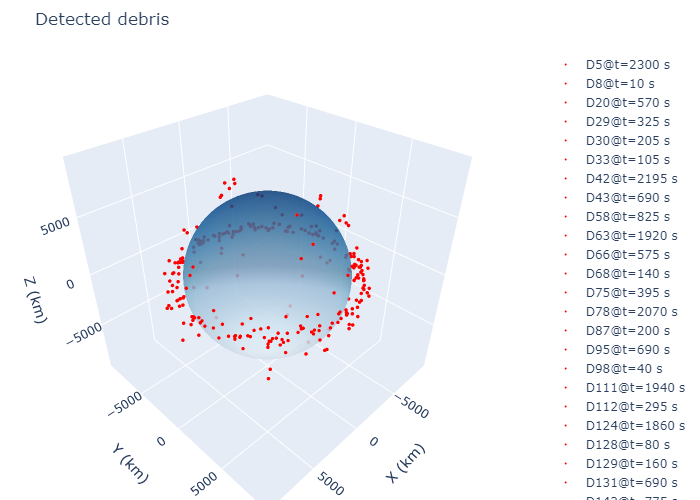
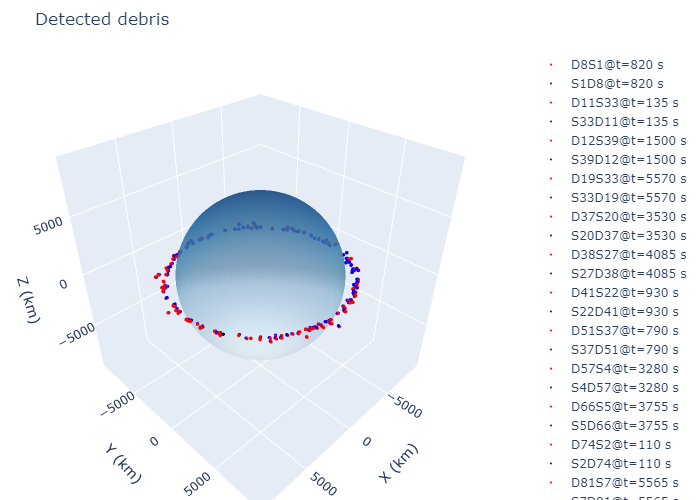
finally fixed the horrible indexing monster bug. graphs work perfectly now. restarting manual sim runs

diff --git a/Optimization/simulation.py b/Optimization/simulation.py
@@ -545,8 +545,8 @@ class Simulation:
 
         # Initialize position arrays. Each row is a timestep, each row is a satellite/debris. Each element is a 3D vector storing the position
         # Using float32 to keep acccuracy and reduce memory usage. float16 cannot be used because of overflow in cp.linalg.norm
-        self.position_deb = cp.zeros((len(times), total_debris, 3), dtype=cp.float32)           # Shape: (T, S, 3)
-        self.position_sat = cp.zeros((len(times), const.total_sats, 3) , dtype=cp.float32)      # Shape: (T, D, 3)
+        self.position_deb = cp.zeros((len(times), total_debris, 3), dtype=cp.float32)           # Shape: (T, D, 3)
+        self.position_sat = cp.zeros((len(times), const.total_sats, 3) , dtype=cp.float32)      # Shape: (T, S, 3)
 
         # Calculate batch size based on available memory
         free_memory, _ = cp.cuda.runtime.memGetInfo()
@@ -558,14 +558,24 @@ class Simulation:
         # Process timesteps in batches
         for i in range(0, (len(times)),batch_size):
             #print(f"batch{i}")
-            batch_times = times[i:i+batch_size]
+            max_index = min(i+batch_size, len(times))
+            batch_times = times[i:max_index]
+
+            # print(max_index)
+            # print(i)
+            # print(batch_times)
+            # print(len(batch_times))
 
             # Propagate all orbits at all times using cowell(). cowell is the only function in poliastro that can propagate to an array of times. save positions in position_deb and position_sat, at the right indices
-            self.position_deb[i:i+batch_size, :, :] = propagate_all_orbits_gpu(cp.zeros((len(batch_times),total_debris,     3)), batch_times, debris_orbits)
-            self.position_sat[i:i+batch_size, :, :] = propagate_all_orbits_gpu(cp.zeros((len(batch_times),const.total_sats, 3)), batch_times, const.sat_orbits)
+            self.position_deb[i:max_index, :, :] = propagate_all_orbits_gpu(cp.zeros((len(batch_times),total_debris,     3)), batch_times, debris_orbits)
+            self.position_sat[i:max_index, :, :] = propagate_all_orbits_gpu(cp.zeros((len(batch_times),const.total_sats, 3)), batch_times, const.sat_orbits)
             
             # Run detection for all timesteps in batch at once. take only the right timesteps from the position arrays.
-            batch_detections, batch_collisions = self.detect_debris_array_GPU(self.position_sat[i:batch_size+i,:,:], self.position_deb[i:batch_size+i,:,:], radar)
+            batch_detections, batch_collisions = self.detect_debris_array_GPU(self.position_sat[i:max_index,:,:], self.position_deb[i:max_index,:,:], radar)
+            #print("batch_detections", batch_detections)
+            # correct batch time indices to global time indices
+            batch_detections[:,0] += i
+            batch_collisions[:,0] += i
             detections = cp.concatenate((detections, batch_detections), axis=0)
             collisions = cp.concatenate((collisions, batch_collisions), axis=0)
 
@@ -574,12 +584,13 @@ class Simulation:
         _, collision_indices = cp.unique(collisions[:,1], return_index=True)
         detections = detections[detection_indices]
         collisions = collisions[collision_indices]
+        detections = detections[1:]                                     # Remove first row (0,0,0)
+        #print("detections", detections)
 
         free_memory, _ = cp.cuda.runtime.memGetInfo()
         # print("Free Memory (GB):", free_memory / 1e9)
 
         # Store results in the Simulation object
-        detections = detections[1:]                                     # Remove first row (0,0,0)
         self.det_deb = detections[:,1].astype(int)                      # column 1 of detections array is the debris index
         self.det_time = detections[:,0].astype(int)                     # column 0 of detections array is the detection time index (not the actual time)
         self.det_sat = detections[:,2].astype(int)                      # column 2 of detections array is the index of the satellite responsible for the detection
@@ -689,11 +700,11 @@ def plot_simulation_results_gpu(sim:Simulation, simid, save=False):
                         marker=dict(color='blue', size=2), name=f'S{sim.det_sat[i]}D{sim.det_deb[i]+1}@t={sim.det_time[i]*sim.timestep:.0f}') 
         )
 
-        if sim.col_deb.any():
-            fig.add_trace(
-                go.Scatter3d(x=[sim.col_pos[i, 0]], y=[sim.col_pos[i, 1]], z=[sim.col_pos[i, 2]], mode='markers',
-                            marker=dict(color='black', size=2), name=f'D{sim.col_deb[i]+1}S{sim.col_sat[i]}@t={sim.col_time[i]*sim.timestep:.0f}') # why i+1?
-            )
+    for i in range(len(sim.col_deb)):
+        fig.add_trace(
+            go.Scatter3d(x=[sim.col_pos[i, 0]], y=[sim.col_pos[i, 1]], z=[sim.col_pos[i, 2]], mode='markers',
+                        marker=dict(color='black', size=2), name=f'D{sim.col_deb[i]+1}S{sim.col_sat[i]}@t={sim.col_time[i]*sim.timestep:.0f}') # why i+1?
+        )
 
     max_distance += 1000
 

diff --git a/Optimization/constellation_benchmark.py b/Optimization/constellation_benchmark.py
@@ -12,7 +12,7 @@ time_of_flight = 2 * u.hour                                         # Time of fl
 start_time = 0*u.s                                                  # Start time of the simulation [s]
 max_timestep = 5.0*u.s                                              # timestep of the simulation [s]
 sim = Simulation (time_of_flight, start_time, max_timestep)         # Create a simulation object
-
+simid = "1.1"
 #### Radar
 radar = Radar()                                                     # Create a radar object
 
@@ -40,4 +40,4 @@ dist, altitudes = satellite_dist(num_orbits = num_orbits, num_sats = num_sats, w
 # Create a constellation object
 const = Constellation(altitudes = altitudes, sat_distribution = dist, i_spacing = i_spacing, i_0 = i_0, raan_spacing = raan_spacing, raan_0 = raan_0, eccentricity = e) 
 # Run the simulation, plot the results and return the efficiency
-consteff = main(sim, const, deb_orbits, deb_d, radar, plot = True, gpu = True, simid = input("Enter simulation ID: "), saveplot = True) 
+consteff = main(sim, const, deb_orbits, deb_d, radar, plot = True, gpu = True, simid = simid, saveplot = True) 

diff --git a/Optimization/generic_tools.py b/Optimization/generic_tools.py
@@ -30,5 +30,19 @@ def safe_norm(x, axis=-1):
 
 if __name__ == "__main__":
 
-    print(format_time(10000.123486))
-    print (100//6)
+    #print(format_time(10000.123486))
+    #print (100//6)
+    a = cp.array([[1,2,3],
+                  [4,5,6],
+                  [7,8,9]])
+    
+    b = cp.array([[0,1,2,3,4],
+                  [5,6,7,8,9]])
+    
+    pos = cp.array([[[1,1,1],[2,2,2],[3,3,3]],
+                    [[4,4,4],[5,5,5],[6,6,6]],
+                    [[7,7,7],[8,8,8],[9,9,9]]])
+    #print(a[0:5,:])
+    print(b[0:10,2])
+    print(b[1,1])
+    print(pos[0:2,:,:])

diff --git a/Optimization/dataset_variability_study.py b/Optimization/dataset_variability_study.py
@@ -41,7 +41,7 @@ const = Constellation(altitudes = altitudes, sat_distribution = dist, i_spacing 
 
 # Run the simulation, plot the results and return the efficiency
 etalist = []
-for i in range(10):
+for i in range(1):
     deb_orbits, deb_d = generate_debris(debris_num, use_new_dataset)    # Generate the debris objects
     consteff = main(sim, const, deb_orbits, deb_d, radar, plot = False, gpu = True, simid = 'test', saveplot = False)
     etalist.append(consteff)

diff --git a/Optimization/note2.md b/Optimization/note2.md
@@ -1,0 +1,99 @@
+detections [[  0.   0.   0.]
+ [164.   7.   1.]
+ [ 27.  10.  33.]
+ [300.  11.  39.]
+ [186.  40.  22.]
+ [158.  50.  37.]
+ [ 22.  73.   2.]
+ [363.  82.  25.]
+ [ 31.  97.  22.]
+ [ 13. 126.  25.]
+ [225. 129.   2.]
+ [355. 134.  13.]
+ [256. 145.   1.]
+ [ 74. 164.  10.]
+ [477. 167.  19.]
+ [141. 182.  47.]
+ [133. 201.  26.]
+ [220. 226.  22.]
+ [490. 244.  28.]
+ [286. 250.   3.]
+ [  1. 267.  17.]
+ [ 49. 279.  31.]
+ [174. 288.  49.]
+ [414. 291.  19.]
+ [248. 295.  13.]
+ [152. 298.  22.]
+ [ 43. 309.   7.]
+ [ 92. 315.  20.]
+ [128. 332.  40.]
+ [ 18. 333.   1.]
+ [483. 359.  23.]
+ [ 17. 366.  12.]
+ [ 14. 381.   5.]
+ [ 38. 384.  16.]
+ [ 81. 386.   1.]
+ [ 49. 391.  16.]
+ [184. 393.  43.]
+ [102. 400.   4.]
+ [255. 427.   7.]
+ [137. 451.   1.]
+ [361. 458.  19.]
+ [  3. 459.   2.]
+ [ 63. 463.  10.]
+ [305. 473.  28.]
+ [138. 475.  43.]
+ [ 27. 486.  37.]
+ [ 21. 497.  14.]
+ [169. 510.   3.]
+ [ 12. 512.  19.]
+ [181. 519.   3.]
+ [117. 522.  38.]
+ [124. 523.  24.]
+ [237. 540.  23.]
+ [ 79. 542.  11.]
+ [442. 544.  51.]
+ [ 34. 545.  39.]
+ [211. 547.   2.]
+ [484. 548.   8.]
+ [119. 549.  35.]
+ [ 87. 561.   5.]
+ [183. 563.  29.]
+ [146. 571.   1.]
+ [381. 587.  16.]
+ [386. 614.  11.]
+ [236. 663.  15.]
+ [236. 665.   1.]
+ [120. 669.  32.]
+ [331. 674.  26.]
+ [ 35. 707.   2.]
+ [ 67. 712.   2.]
+ [252. 717.  34.]
+ [ 38. 721.  18.]
+ [224. 731.  32.]
+ [ 11. 739.  15.]
+ [419. 755.   2.]
+ [ 92. 756.   2.]
+ [ 69. 789.  35.]
+ [134. 790.   3.]
+ [  2. 803.  17.]
+ [217. 829.  45.]
+ [334. 839.  52.]
+ [124. 843.  24.]
+ [250. 858.  17.]
+ [474. 866.  11.]
+ [330. 873.  10.]
+ [ 10. 875.   8.]
+ [391. 881.  27.]
+ [425. 882.  29.]
+ [453. 885.  40.]
+ [386. 895.   1.]
+ [366. 897.   8.]
+ [111. 903.  13.]
+ [226. 921.  29.]
+ [  8. 922.  33.]
+ [ 16. 930.  20.]
+ [218. 951.  36.]
+ [182. 954.  18.]
+ [386. 964.  24.]
+ [110. 989.  46.]]
